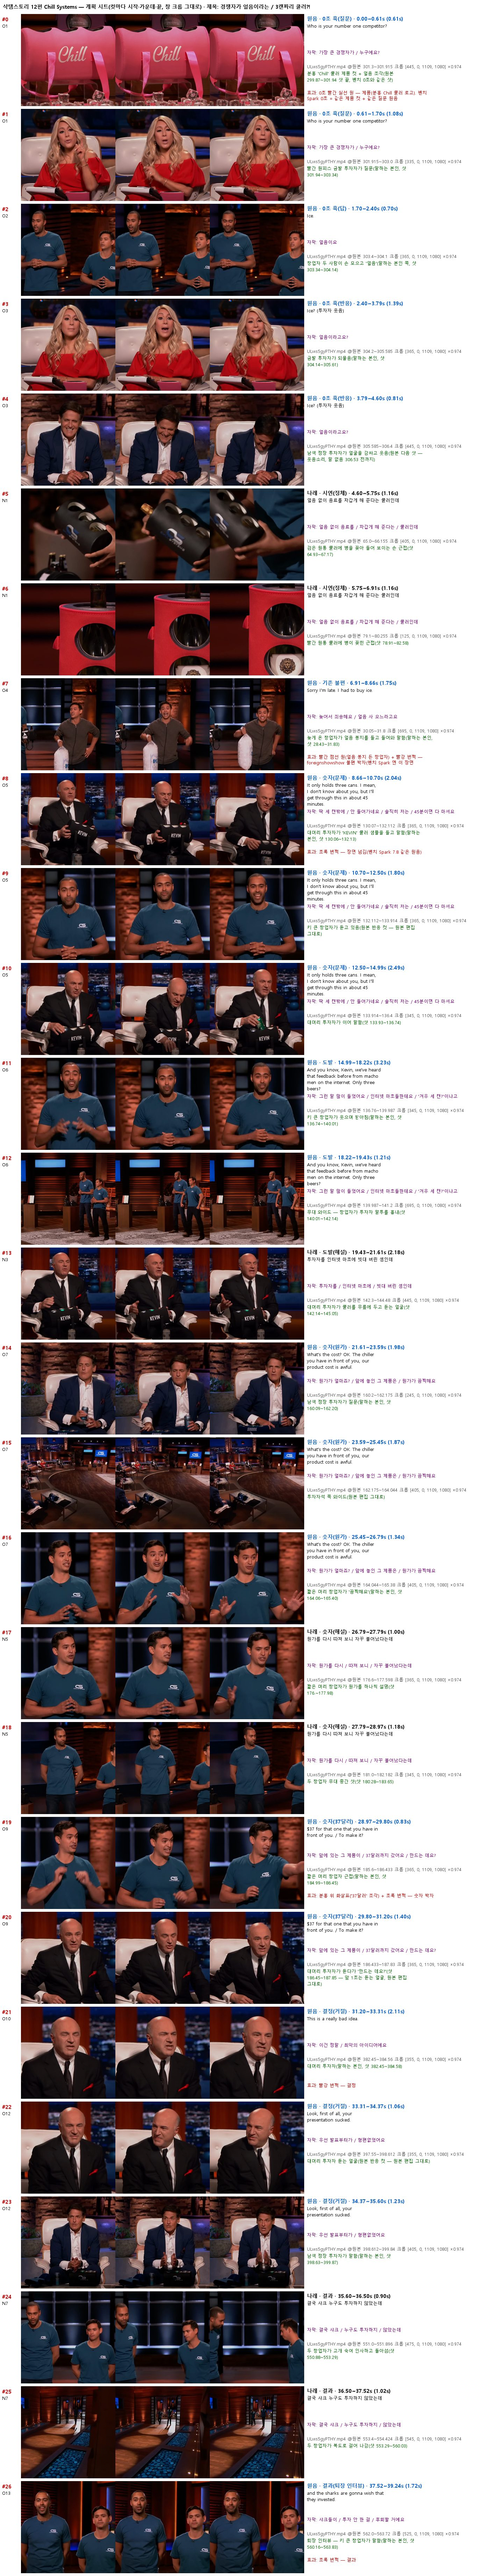
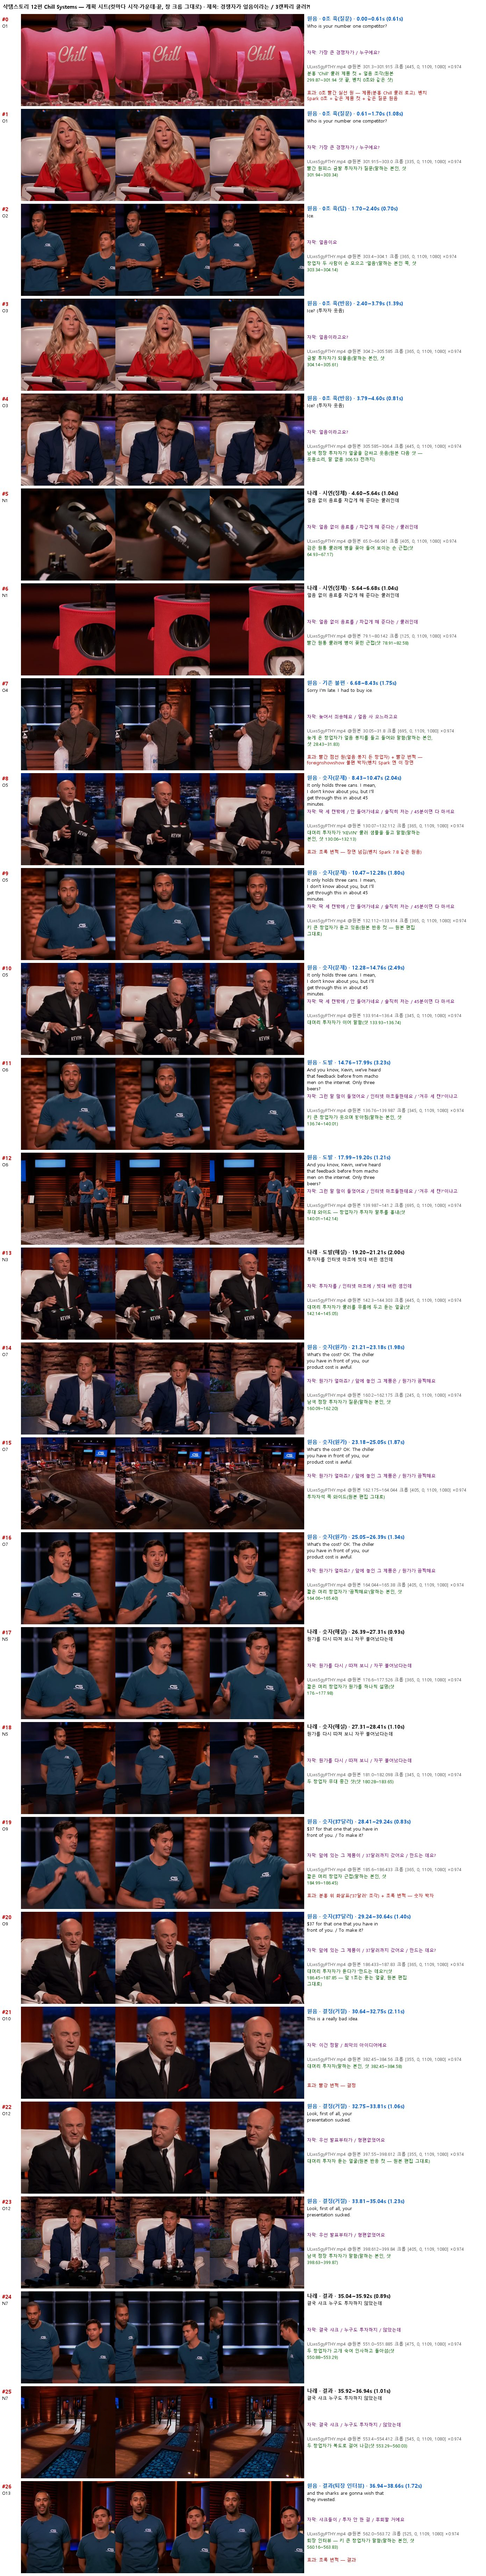
샥탬스토리 12편 Chill Systems 렌더: 점선 원 자리·화살표 시각 고정, 결과·검사 기록, 0초 훅 렌더 프레임 벤치 나란히 (관제 097)

diff --git a/channel/foreignshowshow/12편_ChillSystems/make_plan.py b/channel/foreignshowshow/12편_ChillSystems/make_plan.py
@@ -297,11 +297,12 @@ def main():
          "target_what": "분홍 Chill 쿨러의 'Chill' 로고(원본 301.6초 프레임 sheet/hook_301.6.jpg 격자 — 로고 상자 원본 x 880~1220·y 370~560)",
          "why": "foreignshowshow 0초 빨간 실선 원(QMJ 0.000~0.533, 첫 컷과 같이 사라짐) — 벤치 Spark 0초가 같은 제품 컷이라 물건 원(벤치 8편 중 3편이 물건 원). 크기·선은 rules 고정값",
          "engine": "fx_place.fix 금지(red_circle 을 얼굴로 덮어씀, 7편과 같은 엔진 요청)"},
-        {"line": "O4", "kind": "dashed_circle", "at": [560, 900], "t": [0.17, 1.77], "how": "target", "target": "person", "radius": 300,
-         "target_what": "얼음 봉지를 든 늦게 온 창업자(사람 검출로 자리 계산 — fx_place, at 은 자리표)", "why": "벤치 QMJ 9.27~11.53 기존 불편 사람 빨간 점선 원(컷 +0.17 등장)"},
+        {"line": "O4", "kind": "dashed_circle", "at": [558, 1028], "t": [0.17, 1.782], "how": "target", "target": "person", "radius": 330,
+         "target_box": [288, 647, 828, 1409],
+         "target_what": "얼음 봉지를 든 늦게 온 창업자 — fx_place.final_person/on_target(NanoDet, --tts-only render_info 실제 컷 시각)로 계산(10-19, red_circle 은 빼고 돌림), 움직임 작아 track 없음", "why": "벤치 QMJ 9.27~11.53 기존 불편 사람 빨간 점선 원(컷 +0.17 등장)"},
         {"line": "O4", "kind": "flash", "at": [540, 960], "t": [0.0, 0.45], "color": "빨강", "how": "auto", "why": "불편 박자 빨강 번쩍(QMJ 11.2)"},
         {"line": "O5", "kind": "flash", "at": [540, 960], "t": [0.0, 0.45], "color": "초록", "how": "auto", "why": "장면 넘김 초록 번쩍(QMJ 7.1)"},
-        {"line": "O9", "kind": "arrow_pink_up", "at": [533, 1230], "t": [0.8, 2.6], "how": "auto", "why": "숫자 조각 분홍 위 화살표 — '37달러까지 갔어요'(QMJ 12.017~13.82)"},
+        {"line": "O9", "kind": "arrow_pink_up", "at": [533, 1230], "t": [0.8, 2.2], "how": "auto", "why": "숫자 조각 분홍 위 화살표 — '37달러까지 갔어요'(QMJ 12.017~13.82)"},
         {"line": "O9", "kind": "flash", "at": [540, 960], "t": [0.0, 0.45], "color": "초록", "how": "auto", "why": "숫자 와우 초록 번쩍"},
         {"line": "O10", "kind": "flash", "at": [540, 960], "t": [0.0, 0.45], "color": "빨강", "how": "auto", "why": "결정(거절) 빨강 번쩍(QMJ 44.4)"},
         {"line": "O13", "kind": "flash", "at": [540, 960], "t": [0.0, 0.45], "color": "초록", "how": "auto", "why": "결과 초록 번쩍(QMJ 45.7)"}]

diff --git a/channel/foreignshowshow/12편_ChillSystems/plan/계획.md b/channel/foreignshowshow/12편_ChillSystems/plan/계획.md
@@ -66,3 +66,17 @@
 ## 페이블께 물을 것
 - 0초 원을 제품 물건 원(지금)으로 둘지 vs 둘째 컷 금발 투자자 얼굴 원(얼굴/창 ≈0.22 → 크롭 확대 ×1.4 필요)으로 바꿀지.
 - O4 '얼음 사 오느라'(벤치에 없는 불편 박자) 넣어 둘지 — 빼면 길이 −1.75초.
+
+## 페이블 결정 (10-19)
+- 0초 원 = 제품 'Chill' 로고 물건 원 그대로(fx_place.fix 안 돌림) · O4 '얼음 사 오느라' 유지.
+
+## 렌더 결과 (10-19, TTS 1회 — narr_raw 재사용으로 재렌더 3회)
+- 완성본 `C:/숏템_칼카피/foreignshowshow/12편_ChillSystems/work/render/final.mp4` = 바탕화면 `칼카피영상/샥탬스토리/샥탬스토리_12편_ChillSystems.mp4` = 드라이브 `G:\내 드라이브\칼카피영상\샥탬스토리2번폰\샥탬스토리_12편_ChillSystems.mp4` MD5 a5396c6d9722e1fededfd29815e64823(셋 일치) · 39.00초
+- 1차 렌더 결함(엔진): 첫 줄이 원음이면 narr_placed 앞 무음이 잘려 N1 이 0초에 나옴(완성본 whisper 0.00~2.40 '얼음없이…', narr_placed 34.33≠38.99) → 페이블이 render.py 수리(bdfe9e293) → 재렌더 narr_placed 38.987초, 완성본 whisper N1 4.69~6.77초 ✓.
+- 점점 원 자리: fx_place.final_person/on_target 을 red_circle 빼고 돌려 O4 at (558,1028) r330 · target_box [288,647,828,1409] → make_plan 에 고정.
+- 분홍 화살표 t [0.8,2.6]→[0.8,2.2](O9 끝 2.26초 넘어 다음 줄로 번지던 것).
+- check.py: B1○(+2.5%) B2○(−9.2 LUFS·−1.1 dBFS) B4○(장면 중앙 1.73·끝 1.75) TITLE○ B13○ A9○ SYNC○ O-NARR○ · B16'× 되감김 1(2.5초 = O1 금발 301.9~303.0 ↔ O3 금발 304.2~ 같은 카메라 다른 샷, 원본 앞으로만 — 오탐) · ASR× = 모델 1개(3-flash, 다른 모델 429)만 성공: O1~O13 86~100%. 로컬 whisper 완성본 원음 11줄 71~100% `work/render/asr_final_whisper.json`.
+- verify_fx: 효과음 5/5 · 효과 8/8. 시트 `C:/숏템_칼카피/foreignshowshow/12편_ChillSystems/sheets/verify_fx.jpg` 눈 확인 — 빨간 원 Chill 로고 둘레 ○ · O4 빨강 번쩍 ○ · 점선 원 얼음 봉지 든 창업자 둘레 ○ · O5 초록 ○ · O9 초록 ○ · 분홍 화살표 '37달러까지' 아래 ○ · O10 빨강 ○ · O13 초록 ○.
+- 0초 훅 실제 렌더 프레임 벤치 나란히 `plan/hook_vs_bench_render.jpg`(0~4초 9칸): 쿨러+원 → 금발 질문 → 창업자 '얼음이요' → 금발 되묻기 → 웃는 투자자, 벤치와 같은 흐름·같은 시각대.
+- compare_bench(Spark) 11칸 중 8 통과 · 떨어짐 3 = 자막 줄 자리(벤치 Spark 는 창 위쪽 자막 → 측정 None) · 꾸밈 등장 수(벤치 3 = 분홍 쿨러·빨간 쿨러를 꾸밈으로 오검출, 우리 3 중 5.8 '빨강 꾸밈'도 빨간 쿨러) · 원-얼굴(물건 원 — 페이블 결정) `C:/숏템_칼카피/foreignshowshow/12편_ChillSystems/compare/`.
+- 말속도: TTS 원 9.71자/초 → atempo 0.85(하한) → 8.49자/초(목표 7.8, 벤치 7.7~8.8).
